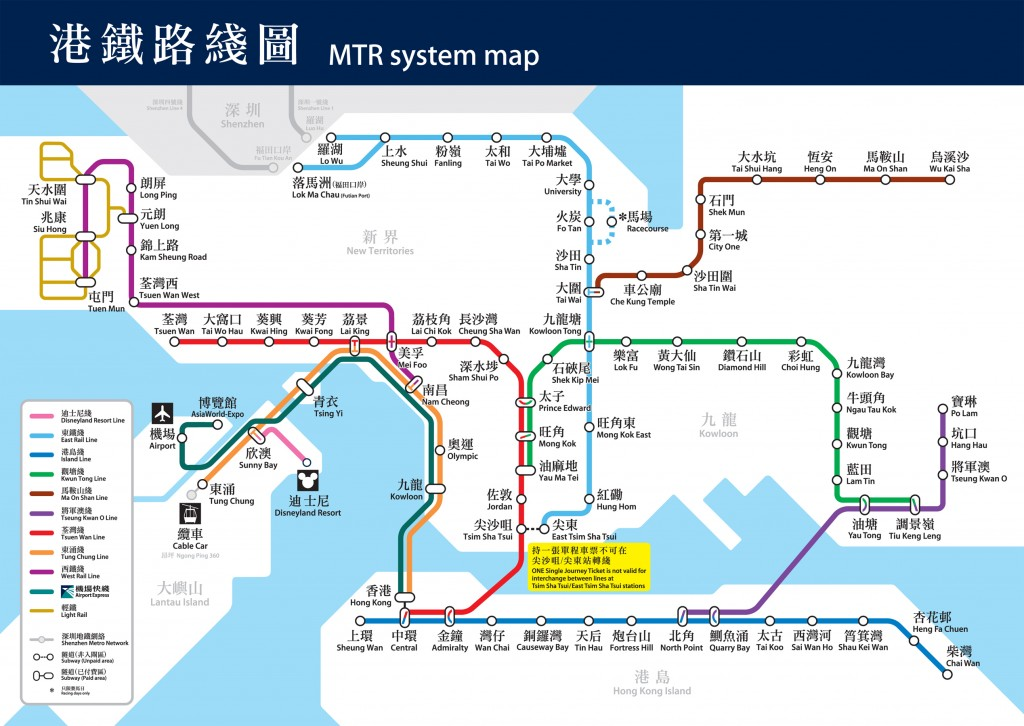
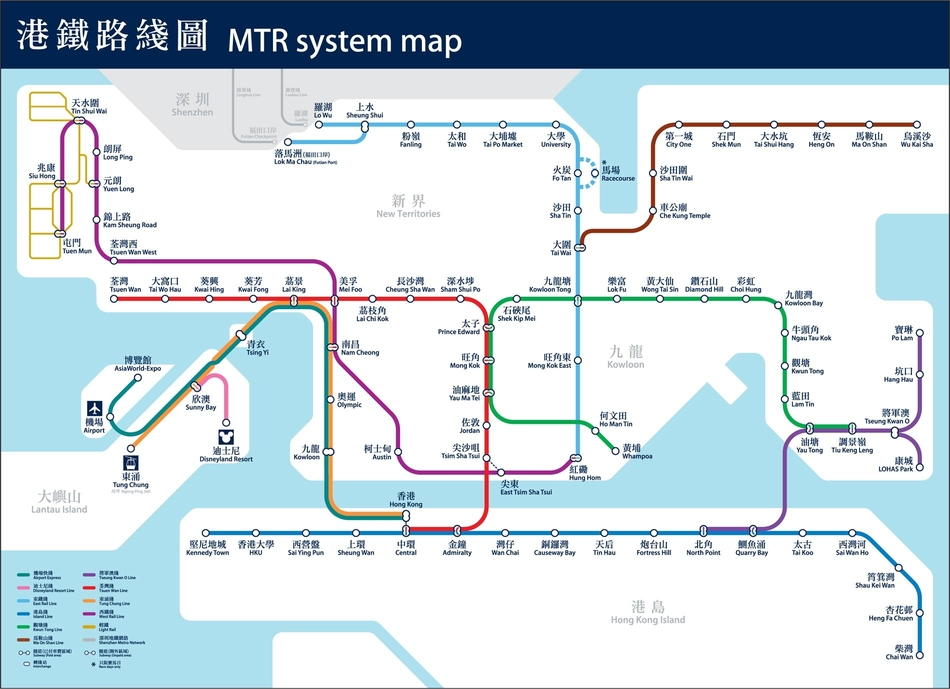
Updated the GUI little

diff --git a/Railway Fee Calculation/src/Gui.java b/Railway Fee Calculation/src/Gui.java
@@ -26,77 +26,94 @@ public class Gui {
         addComponentsToPane(frame.getContentPane());
 
         //Size and display the window.
-        frame.setSize(1500,726);
+        frame.setSize(1500,689);
         frame.setResizable(false);
         
         BufferedImage routeMap = ImageIO.read(new File("image/route.jpg"));
         JLabel routeMapLabel = new JLabel(new ImageIcon(routeMap));
-        routeMapLabel.setBounds(0, 0, 1024, 726);
+        routeMapLabel.setBounds(0, 0, 950, 689);
         
         JLabel label1 = new JLabel("Start station");
-        label1.setBounds(1050, 0, 100, 100);
+        label1.setBounds(1000, 0, 100, 100);
         frame.add(label1);
         
         JLabel label2 = new JLabel("End station");
-        label2.setBounds(1050, 100, 100, 100);
+        label2.setBounds(1000, 100, 100, 100);
         frame.add(label2);
         
         JLabel label3 = new JLabel("Quantity");
-        label3.setBounds(1050, 200, 100, 100);
+        label3.setBounds(1000, 300, 100, 100);
         frame.add(label3);
         
         JLabel label4 = new JLabel("Payment method");
-        label4.setBounds(1050, 300, 100, 100);
+        label4.setBounds(1000, 200, 100, 100);
         frame.add(label4);
         
         JLabel label5 = new JLabel("Age group");
-        label5.setBounds(1050, 400, 100, 100);
+        label5.setBounds(1000, 400, 100, 100);
         frame.add(label5);
         
         
         
         JTextArea area1 = new JTextArea();
-        area1.setBounds(1200,30,200,50);
+        area1.setBounds(1125,30,200,50);
         area1.setFocusable(false);
         frame.add(area1);
         
         JTextArea area2 = new JTextArea();
-        area2.setBounds(1200,125,200,50);
+        area2.setBounds(1125,125,200,50);
         area2.setFocusable(false);
         frame.add(area2);
         
         JButton jb = new JButton("Calculate distance");
-        jb.setBounds(1150,500,200,50);
+        jb.setBounds(1125,500,200,50);
         frame.add(jb);
         
         String[] quantity ={"1","2","3","4","5","6","7","8","9","10"}; 
         JComboBox jc = new JComboBox(quantity);
-        jc.setBounds(1200,220,200,50);
+        jc.setBounds(1125,320,200,50);
+        jc.setEnabled(false);
         frame.add(jc);
         
         
         String[] paymentMethod = {"Octopus","Ticket"};
         JComboBox jc2 = new JComboBox(paymentMethod);
-        jc2.setBounds(1200,320,200,50);
+        jc2.setBounds(1125,220,200,50);
         frame.add(jc2);
         
         
         String[] ageGroup ={"Child","Student","Adult","Elderly"}; 
         JComboBox jc3 = new JComboBox(ageGroup);
-        jc3.setBounds(1200,420,200,50);
+        jc3.setBounds(1125,420,200,50);
         frame.add(jc3);
+        
+        jc2.addActionListener(new ActionListener()
+        {
+        	@Override
+			public void actionPerformed(ActionEvent e)
+        	{
+        		if(jc2.getSelectedIndex() == 1)
+        		{
+        			jc.setEnabled(true);
+        		}
+        		
+        		else
+        			jc.setEnabled(false);
+        	}
+        });
+
         
         jb.addActionListener(new ActionListener()
         {
 			@Override
 			public void actionPerformed(ActionEvent e) {
 				double distance = pc.stationDistance(start,dest,null);
-				int quantity = jc.getSelectedIndex()+1;
-				int paymentMethod = jc2.getSelectedIndex()+1;
-				int ageGroup = jc3.getSelectedIndex()+1;
-				int startCode = start.getCode();
-				int destCode = dest.getCode();
-				JOptionPane.showMessageDialog(null, "The distance: " + distance + "\nThe price is:" + pc.finalCalculation(ageGroup, quantity, paymentMethod, start, dest));
+				int quantity = fee.setQuantity(jc.getSelectedIndex()+1);
+				int paymentMethod = fee.setMethod(jc2.getSelectedIndex()+1);
+				int ageGroup = fee.setAgeGroup(jc3.getSelectedIndex()+1);
+				int startCode = fee.setStartCode(start.getCode());
+				int destCode = fee.setDestCode(dest.getCode());
+				JOptionPane.showMessageDialog(null, "The distance: " + distance + "\nThe price is:" + fee.finalCalculation());
 				
 			}
         });
@@ -105,28 +122,41 @@ public class Gui {
         frame.addMouseListener(new MouseAdapter() { 
             public void mousePressed(MouseEvent me) 
             {
-            	if(SwingUtilities.isLeftMouseButton(me))
+            	if(SwingUtilities.isLeftMouseButton(me) && me.getX() <= 950 && me.getY() <= 689)
             	{
-//            		JOptionPane.showMessageDialog(null, "The mouse getX:" + me.getX());
-//            		System.out.print(me.getY() + ",");
-            		start = lc.getStationByPos(me.getX(), me.getY());
+            		Object[] options = {"Start station","Destinition station"};
             		
-            		if(start != null)
-            		{
-            			area1.setText(start.getStation());
-            		}
-            	}
-            	
-            	else
-            	{
-            		dest = lc.getStationByPos(me.getX(), me.getY());
+            		int n = JOptionPane.showOptionDialog(frame,
+            			    "Please choose for start or destinition",
+            			    "",
+            			    JOptionPane.YES_NO_CANCEL_OPTION,
+            			    JOptionPane.QUESTION_MESSAGE,
+            			    null,
+            			    options,
+            			    options[0]);
             		
-            		if(dest != null)
+            		if(n == 0)
             		{
-            			area2.setText(dest.getStation());
+                		start = lc.getStationByPos(me.getX(), me.getY());
+                		
+                		if(start != null)
+                		{
+                			area1.setText(start.getStation());
+                		}
             		}
-            	}
-            	
+            		
+            		else if(n == 1)
+            		{
+                		dest = lc.getStationByPos(me.getX(), me.getY());
+                		
+                		if(dest != null)
+                		{
+                			area2.setText(dest.getStation());
+                		}
+            		}
+            		
+            		
+            	}          	
              } 
            	});
 

diff --git a/Railway Fee Calculation/src/PriceCalculator.java b/Railway Fee Calculation/src/PriceCalculator.java
@@ -72,8 +72,10 @@ public class PriceCalculator {
 		
 		// The information
 		String[] fileName = {"blue","green","purple","red"};
-		int[] posX = {951,916,867,817,772,716,684,635,591,542,493,454,407,363,-1,-1,527,528,529,550,593,629,681,746,801,841,841,841,840,867,918,685,717,866,918,945,946,947,178,225,270,315,360,393,432,479,506,530,527,529,524,524,454,409};
-		int[] posY = {698,665,646,646,647,638,639,644,643,644,643,637,640,641,-1,-1,494,460,425,383,363,364,366,362,364,396,428,465,502,529,526,640,640,528,531,499,465,435,365,366,365,365,368,366,364,366,383,425,462,493,522,551,641,640};
+//		int[] posX = {951,916,867,817,772,716,684,635,591,542,493,454,407,363,-1,-1,527,528,529,550,593,629,681,746,801,841,841,841,840,867,918,685,717,866,918,945,946,947,178,225,270,315,360,393,432,479,506,530,527,529,524,524,454,409};
+		int[] posX = {920,925,900,856,808,757,706,657,607,558,512,461,409,359,307,259,208,618,599,491,491,492,520,581,620,662,708,749,782,790,789,789,814,856,706,756,814,856,897,923,924,924,116,167,212,255,296,337,375,414,462,492,492,492,490,490,460,409};
+//		int[] posY = {698,665,646,646,647,638,639,644,643,644,643,637,640,641,-1,-1,494,460,425,383,363,364,366,362,364,396,428,465,502,529,526,640,640,528,531,499,465,435,365,366,365,365,368,366,364,366,383,425,462,493,522,551,641,640};
+		int[] posY= {681,638,591,557,554,555,554,556,555,554,557,555,554,556,556,557,555,475,456,416,385,351,322,325,322,322,322,323,330,357,391,423,452,451,555,553,452,454,456,491,400,358,323,323,322,323,325,324,323,323,323,353,384,419,450,483,555,556};
 		
 		// For reading the position in GUI
 		int readStationGUIPos = 0;
@@ -90,12 +92,6 @@ public class PriceCalculator {
 				while((row=reader.readLine())!=null){
 					
 					String data[]=row.split(","); //split columns in each rows
-					
-					// These stations are not added because the map is not up-to-date
-					if(data[1].equalsIgnoreCase("LOHAS Park") || data[1].equalsIgnoreCase("Sai Ying Pun") || data[1].equalsIgnoreCase("HKU") || data[1].equalsIgnoreCase("Kennedy Town"))
-					{
-						continue;
-					}
 					
 					Station newStation= new Station(data[0],data[1],data[2],data[3]);
 					newStation.setPosX(posX[readStationGUIPos]);

diff --git a/Railway Fee Calculation/src/fee.java b/Railway Fee Calculation/src/fee.java
@@ -18,6 +18,8 @@ public class fee {
 		PriceCalculator Calculator=PriceCalculator.getInstance();
 		try {
 			//call for the formula
+			Gui g = new Gui();
+			g.display();
 			Scanner input=new Scanner(System.in);
 
 			ageGroup = askForAgeGroup(input);
@@ -26,8 +28,6 @@ public class fee {
 			System.out.println("Please input Starting Station: ");
 			Calculator.outputAllStation();
 			
-			//Gui g = new Gui();
-			//g.display();
 			start = input.nextInt();
 			
 			System.out.println("Please input Destination Station: ");
@@ -101,6 +101,62 @@ public class fee {
 		}
 		return amount;
 	}
+	
+	public static int setMethod(int method)
+	{
+		if(method == 1)
+		{
+			paymentMethod = new Octopus();
+		}
+		
+		else
+			paymentMethod = new Cash();
+		
+		return method;
+	}
+	
+	public static int setQuantity(int quan)
+	{
+		quantity = quan;
+		return quan;
+	}
+	
+	public static int setAgeGroup(int group)
+	{
+		if(group == 1)
+		{
+			ageGroupClass = new Child();
+		}
+		
+		else if(group == 2)
+		{
+			ageGroupClass = new Student();
+		}
+		
+		else if(group == 3)
+		{
+			ageGroupClass = new Adult();
+		}
+		
+		else if(group == 4)
+		{
+			ageGroupClass = new Elderly();
+		}
+		
+		return group;
+	}
+	
+	public static int setStartCode(int startCode)
+	{
+		start = startCode;
+		return start;
+	}
+	
+	public static int setDestCode(int destCode)
+	{
+		dest = destCode;
+		return dest;
+	}
 
 	private static int askForAgeGroup(Scanner in) {
 		
@@ -144,7 +200,7 @@ public class fee {
 		return group;
 	}
 
-	private static float finalCalculation() {
+	public static float finalCalculation() {
 		float price = 0;
 		price = paymentMethod.getBasePrice(start, dest, quantity);
 		float discount = ageGroupClass.getDiscount();
